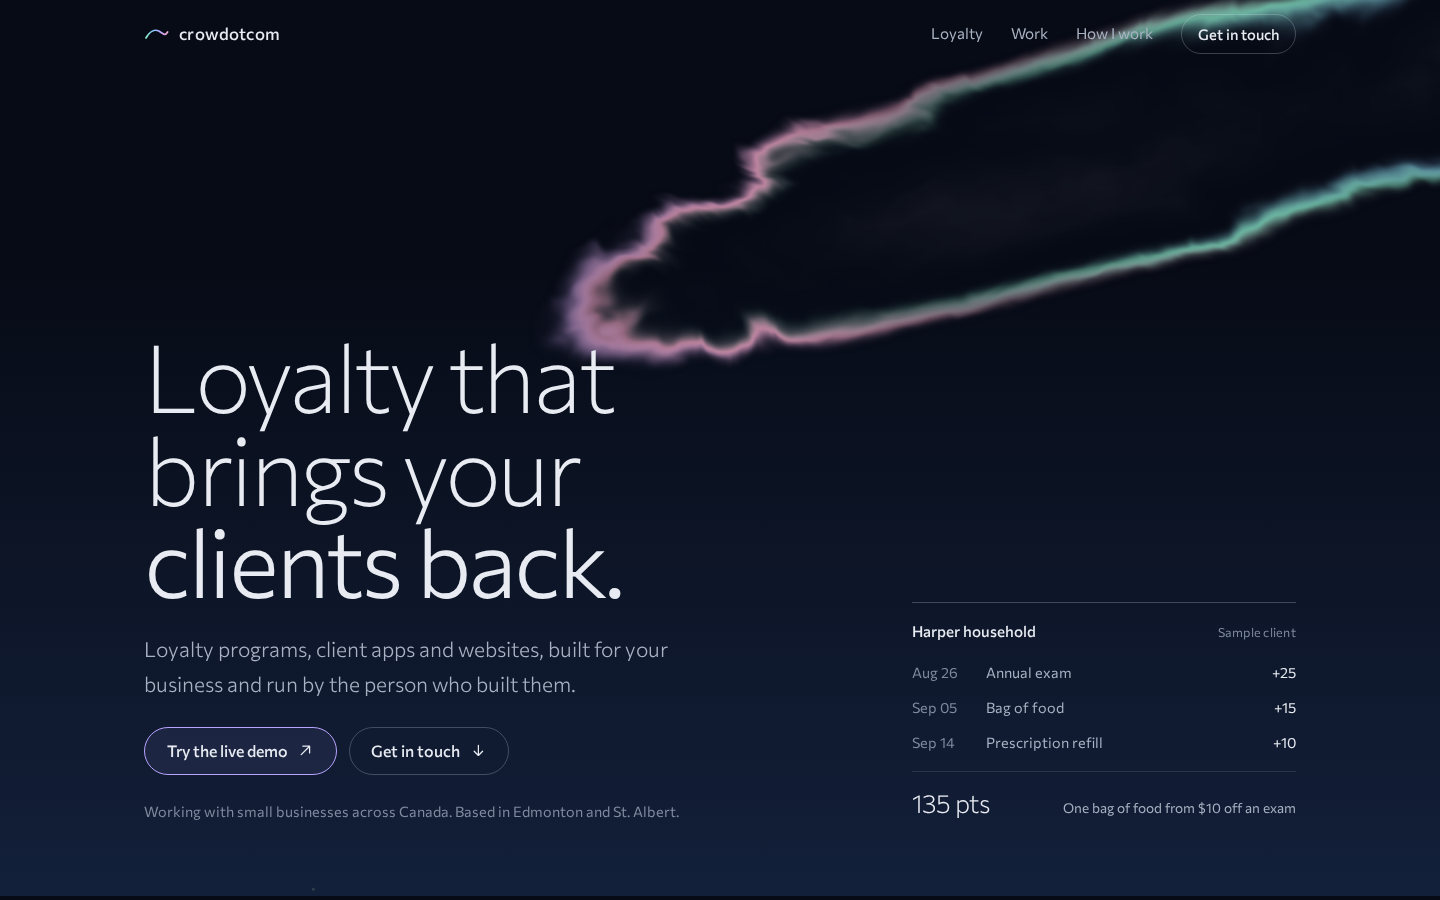
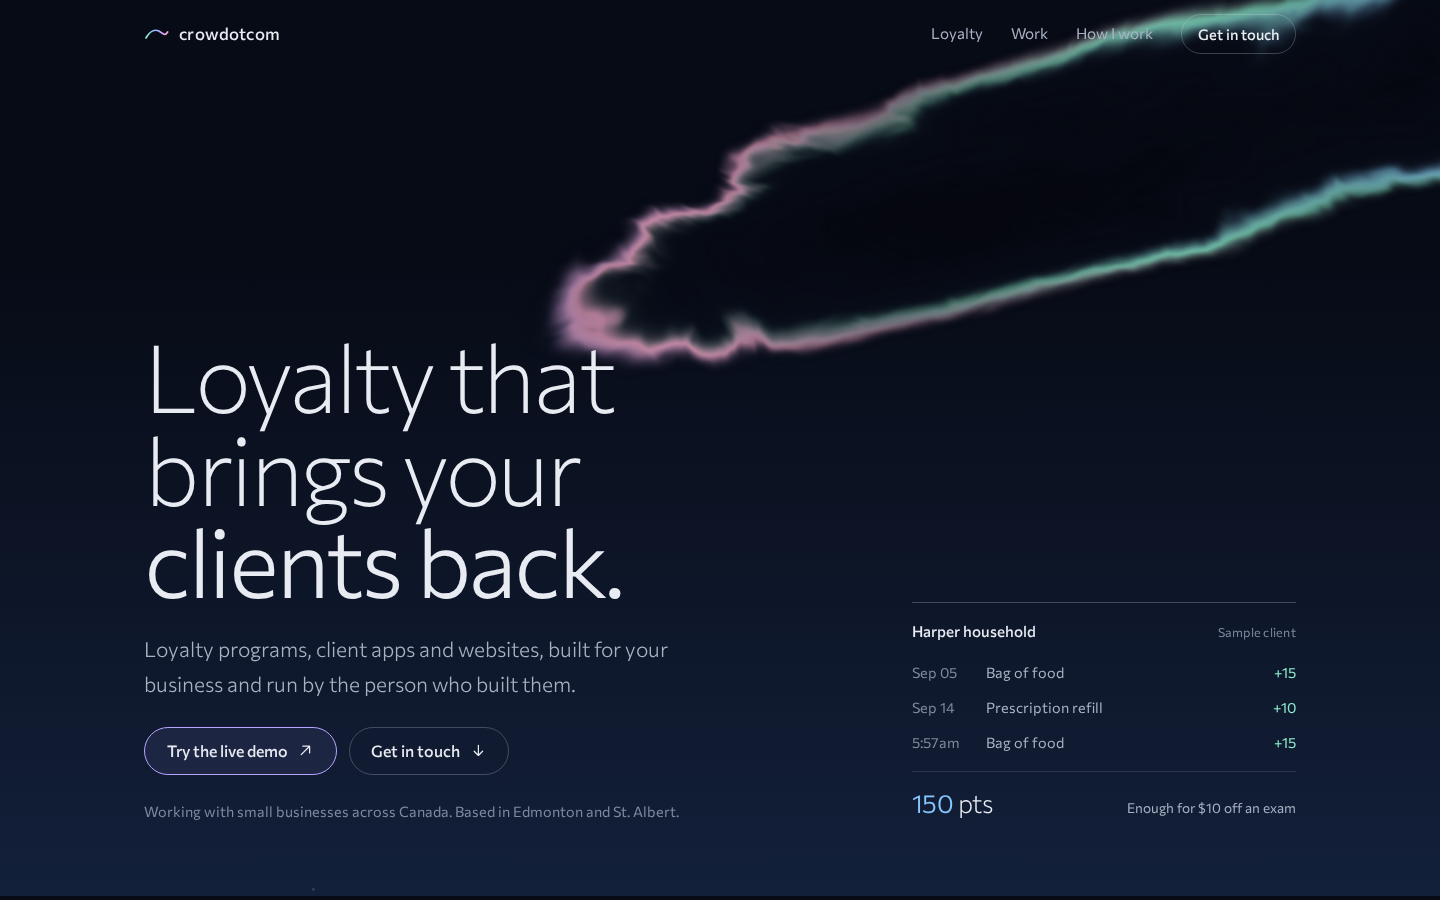
Darken the cloud body and colour the points figures
The cloud is now a dark silhouette lit only at its edge. Points held
read in ice, earned in mint, waiting or spent in rose. Fixes the
'Last in ... ago' wording on the sample clients.

diff --git a/index.html b/index.html
@@ -144,11 +144,16 @@
   .log { list-style: none; margin: 0; padding: 0; display: grid; gap: .1rem; font-size: .9rem; }
   .log li { display: grid; grid-template-columns: 3.9rem 1fr auto; gap: .75rem; padding: .3rem 0; color: var(--mist); }
   .log .when { color: var(--faint); }
-  .log .pts { color: var(--silver); }
+  .log .pts { color: var(--mint); font-variant-numeric: tabular-nums; }
+  .log .pts.spent { color: var(--rose); }
   .log li.fresh { animation: settle 1.2s cubic-bezier(.16, 1, .3, 1); }
   @keyframes settle { from { color: var(--violet); } to { color: var(--mist); } }
   .observe-foot { display: flex; justify-content: space-between; align-items: baseline; gap: 1rem; border-top: 1px solid var(--rule); padding-top: .6rem; }
   .observe-foot .total { font-size: 1.6rem; font-weight: 250; letter-spacing: -.02em; }
+  .observe-foot .total output { color: var(--ice); font-weight: 350; }
+  /* Numbers are measurements of the light: held points ice, earned mint, waiting rose. */
+  .n-held, .n-wait { white-space: nowrap; }
+  .n-held, .client-name .n-held { color: var(--ice); } .n-wait, .client-name .n-wait { color: var(--rose); }
   .observe-foot span:last-child { font-size: .85rem; color: var(--mist); text-align: right; }
 
   /* Sections ------------------------------------------------------------- */
@@ -378,22 +383,22 @@
 
       <ul class="clients" id="clients">
         <li class="client" data-state="vivid">
-          <div class="client-name"><b>Harper household</b><span>In last week · 135 points</span></div>
+          <div class="client-name"><b>Harper household</b><span>In last week · <span class="n-held">135 points</span></span></div>
           <svg class="edge" viewBox="0 0 400 44" preserveAspectRatio="none" aria-hidden="true"><path class="body" d="M4 30 C60 8 110 38 170 22 S290 6 340 24 S392 30 396 18"/><path class="fringe" stroke="url(#spectrum)" d="M4 26 C60 4 110 34 170 18 S290 2 340 20 S392 26 396 14"/></svg>
           <div class="client-state"><span class="word">Regular</span></div>
         </li>
         <li class="client" data-state="forming">
-          <div class="client-name"><b>Okafor household</b><span>Joined this month · 40 points</span></div>
+          <div class="client-name"><b>Okafor household</b><span>Joined this month · <span class="n-held">40 points</span></span></div>
           <svg class="edge" viewBox="0 0 400 44" preserveAspectRatio="none" aria-hidden="true"><path class="body" d="M4 26 C70 34 120 12 190 24 S300 36 350 20 S392 22 396 26"/><path class="fringe" stroke="url(#spectrum)" d="M4 22 C70 30 120 8 190 20 S300 32 350 16 S392 18 396 22"/></svg>
           <div class="client-state"><span class="word">New, still forming</span></div>
         </li>
         <li class="client" data-state="dispersing">
-          <div class="client-name"><b>Lindqvist household</b><span>Last in 11 weeks ago · 120 points waiting</span></div>
+          <div class="client-name"><b>Lindqvist household</b><span>Last visit 11 weeks ago · <span class="n-wait">120 points waiting</span></span></div>
           <svg class="edge" viewBox="0 0 400 44" preserveAspectRatio="none" aria-hidden="true"><path class="body" d="M4 22 C50 30 130 10 200 26 S310 12 360 26 S392 20 396 22"/><path class="fringe" stroke="url(#spectrum)" d="M4 18 C50 26 130 6 200 22 S310 8 360 22 S392 16 396 18"/></svg>
           <div class="client-state"><span class="word">Drifting</span><button class="act small primary" type="button" data-bring-back>Send a note</button></div>
         </li>
         <li class="client" data-state="absent">
-          <div class="client-name"><b>Marchetti household</b><span>Last in 7 months ago · 85 points waiting</span></div>
+          <div class="client-name"><b>Marchetti household</b><span>Last visit 7 months ago · <span class="n-wait">85 points waiting</span></span></div>
           <svg class="edge" viewBox="0 0 400 44" preserveAspectRatio="none" aria-hidden="true"><path class="body" d="M4 24 C80 14 140 32 210 20 S320 30 370 18 S392 24 396 20"/><path class="fringe" stroke="url(#spectrum)" d="M4 20 C80 10 140 28 210 16 S320 26 370 14 S392 20 396 16"/></svg>
           <div class="client-state"><span class="word">Gone quiet</span><button class="act small primary" type="button" data-bring-back>Send a note</button></div>
         </li>
@@ -614,13 +619,16 @@
         float d = fbm(q + 1.6 * warp) * ribbon;
         float body = smoothstep(0.30, 0.62, d);
         float edge = smoothstep(0.22, 0.30, d) * (1.0 - smoothstep(0.30, 0.40, d));
-        vec3 col = vec3(0.0);
-        col += body * vec3(0.78, 0.84, 0.92) * 0.42;
-        col += edge * spectrum(d * 3.2 + uv.x * 0.7 + t * 0.01) * 0.95;
-        float stars = step(0.9985, h(floor(gl_FragCoord.xy / 2.0))) * (1.0 - ribbon) * 0.55;
-        col += stars;
-        float alpha = clamp(max(max(col.r, col.g), col.b), 0.0, 1.0);
-        gl_FragColor = vec4(col / max(alpha, 0.001), alpha);
+        // The body is a dark silhouette that hides the stars behind it; only
+        // the edge carries light.
+        vec3 lit = edge * spectrum(d * 3.2 + uv.x * 0.7 + t * 0.01) * 0.95;
+        lit += step(0.9985, h(floor(gl_FragCoord.xy / 2.0))) * (1.0 - ribbon) * 0.55;
+        float la = clamp(max(max(lit.r, lit.g), lit.b), 0.0, 1.0);
+        float ba = body * 0.88;
+        vec3 shade = vec3(0.016, 0.024, 0.055) + spectrum(d * 2.0 + t * 0.01) * 0.035 * (1.0 - body);
+        float alpha = la + ba * (1.0 - la);
+        vec3 col = (lit + shade * ba * (1.0 - la)) / max(alpha, 0.001);
+        gl_FragColor = vec4(col, alpha);
       }`;
 
     const compile = (type, src) => { const s = gl.createShader(type); gl.shaderSource(s, src); gl.compileShader(s); return gl.getShaderParameter(s, gl.COMPILE_STATUS) ? s : null; };
@@ -673,7 +681,7 @@
       points += pts;
       const li = document.createElement("li"); li.className = "fresh";
       li.innerHTML = '<span class="when"></span><span></span><span class="pts"></span>';
-      li.children[0].textContent = stamp(); li.children[1].textContent = what; li.children[2].textContent = (pts > 0 ? "+" : "−") + Math.abs(pts);
+      li.children[0].textContent = stamp(); li.children[1].textContent = what; li.children[2].textContent = (pts > 0 ? "+" : "−") + Math.abs(pts); if (pts < 0) li.children[2].classList.add("spent");
       log.appendChild(li);
       while (log.children.length > 3) log.removeChild(log.firstElementChild);
       total.textContent = points;

diff --git a/DESIGN.md b/DESIGN.md
@@ -85,7 +85,7 @@ The page is a clear Alberta night with one iridescent cloud in it. Loyalty is dr
 The ground is night blue, the text is silver, and colour appears only where light would: at an edge. There are no cards, no kickers, no glows. Rows are separated by hairlines, the type is one humanist sans at hairline weight for display, and violet is kept for the single action a visitor is asked to take.
 
 **Key Characteristics:**
-- One WebGL cloud in the hero, capped at 30fps, paused offscreen, a still frame under reduced motion.
+- One WebGL cloud in the hero, a dark silhouette that hides the stars, lit only at its edge, capped at 30fps, paused offscreen, a still frame under reduced motion.
 - The spectrum (mint, ice, violet, rose) appears only as a fringe: the cloud edge, the client edges, the logo mark, the phone frame's hairline.
 - Hairline-ruled rows instead of containers.
 - Hairline display type (weight 200) against a comfortable 400 body.
@@ -104,7 +104,7 @@ The ground is night blue, the text is silver, and colour appears only where ligh
 - **Silver** `#e8ecf2` text, **Mist** `#a8b2c3` secondary text, **Faint** `#7f8a9e` metadata and placeholders (5.4:1 on night).
 - Rules are silver at 12% and 24% alpha.
 
-**The Edge Rule.** Colour lives on edges, never on surfaces. If a colour fills an area larger than a hairline, it is wrong.
+**The Edge Rule.** Colour lives on edges and on the numbers that matter, never on surfaces. Points held are ice, points earned are mint, points waiting or spent are rose. If a colour fills an area larger than a hairline, it is wrong.
 
 **The One Violet Rule.** Violet marks the thing to do next. Two violet things on one screen means one of them is lying.
 
